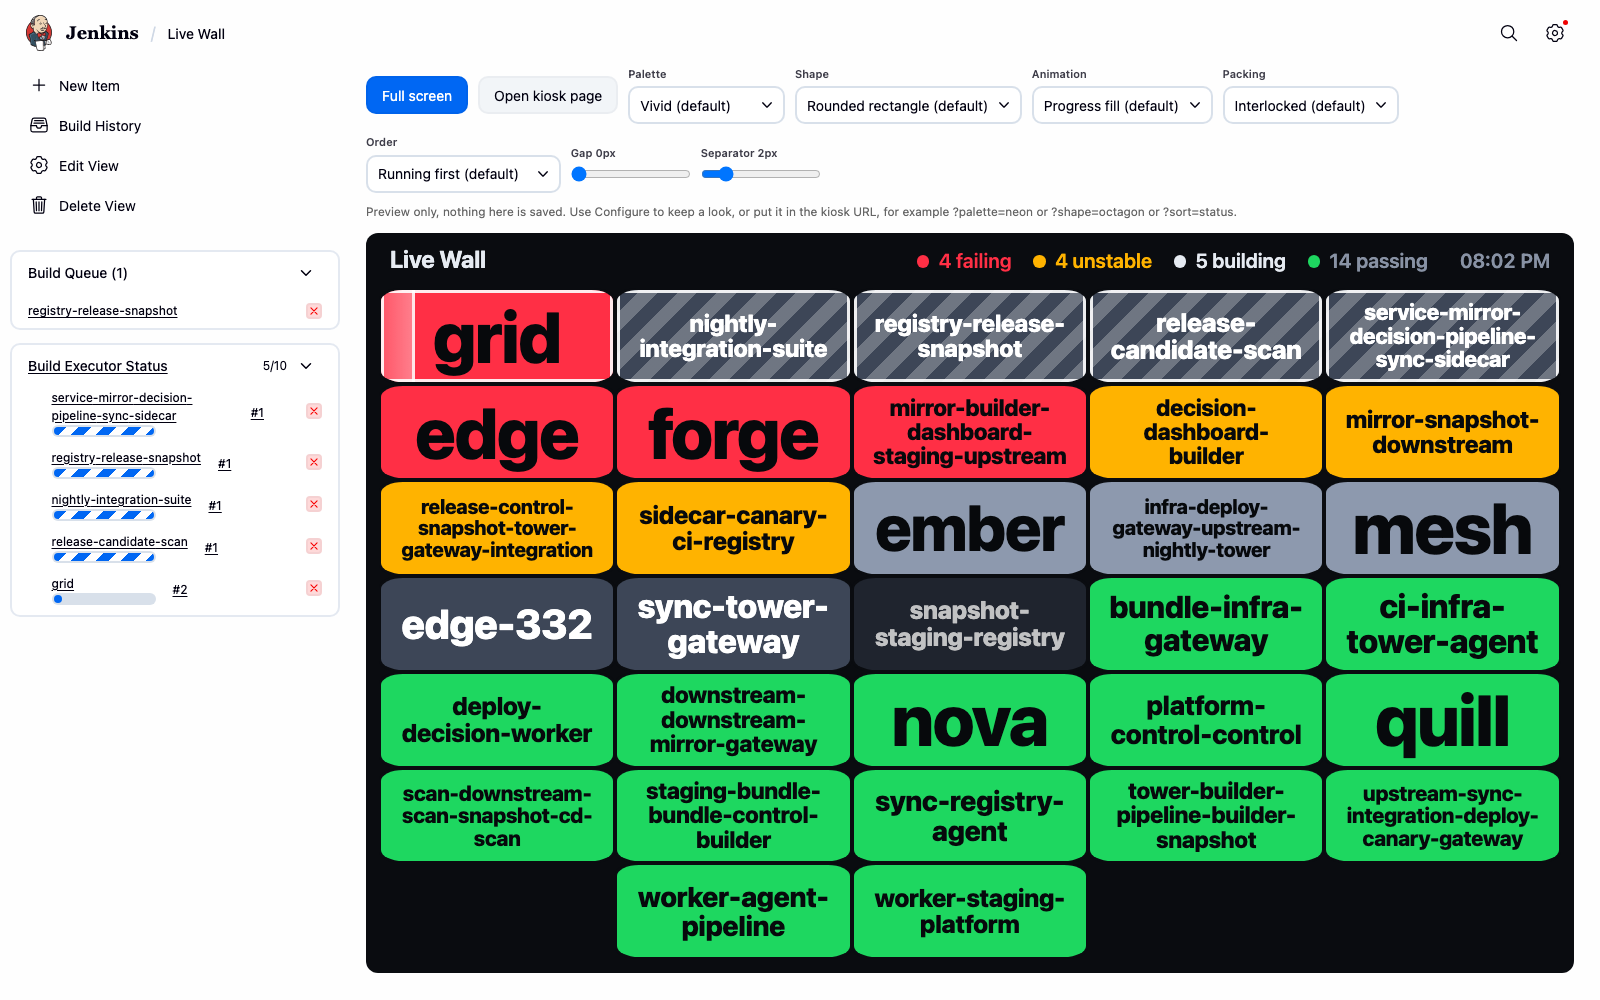
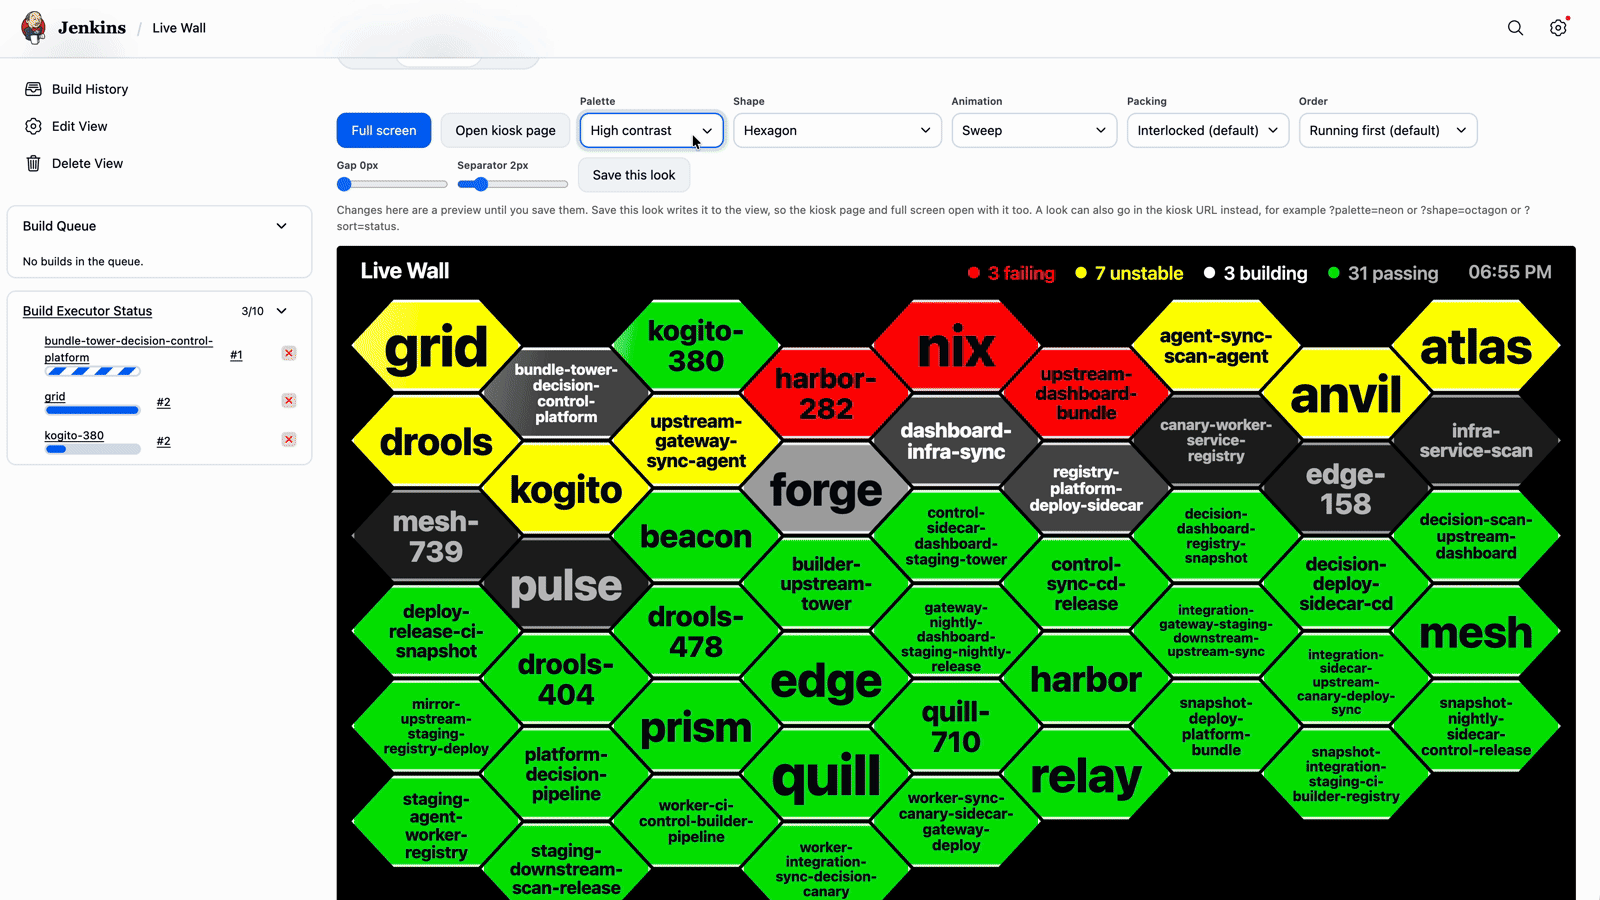
Add the demo video to the README, and refresh the view page screenshot (#13)
The recording is hosted by GitHub rather than committed: the original was
115MB of 3680x2392 at 120fps, and even compressed to 2.4MB a video in-tree
would sit in the clone forever, including in the jenkinsci fork once
hosting completes.

A bare attachment URL on its own line is what GitHub turns into an inline
player. That only works on GitHub, so there is a plain text link under it
for everywhere else -- plugins.jenkins.io renders this README too, and it
will almost certainly not render the embed.

The view page screenshot predated the Save button, so the paragraph beside
it described controls the picture did not have. Replaced with a frame from
the same recording, which also shows the current hint text.

That paragraph also still claimed nothing in the preview bar is saved,
which stopped being true when the Save button landed.

diff --git a/README.md b/README.md
@@ -18,6 +18,16 @@ clock.](docs/images/wall-hexagon.png)
 *Hexagons interlocked into a honeycomb. Jobs building right now sort to the top left, and the
 striped fill means Jenkins has no duration estimate to draw a progress bar from yet.*
 
+## See it running
+
+Forty seconds against a real controller: palettes and shapes changing on a live wall of 42 jobs,
+saving the look, and the kiosk page a television would be pointed at.
+
+https://github.com/user-attachments/assets/2a78178a-342e-46e0-a370-7cf2a3b915e9
+
+*No player above? [Watch the demo](https://github.com/user-attachments/assets/2a78178a-342e-46e0-a370-7cf2a3b915e9)
+— the inline video only renders on GitHub.*
+
 ---
 
 ## Why
@@ -108,11 +118,15 @@ type on:
 ```
 
 The view page also has a preview bar: drop-downs for palette, shape, animation, packing and order,
-and sliders for the gap and the separator, all applied to your real jobs as you change them. Nothing
-there is saved — it is for finding a look before committing it under **Configure**.
+and sliders for the gap and the separator, all applied to your real jobs as you change them. Moving
+one changes the wall in front of you and nothing else, so you can try a palette on the real thing
+without committing to it — and **Save this look** then keeps what you arrived at, so the kiosk page
+and full screen open with it too.
 
-![The Live Wall view inside Jenkins, with a row of preview controls above the wall: palette, shape,
-animation, packing, order, and sliders for gap and separator.](docs/images/view-page.png)
+![The Live Wall view inside Jenkins. Above the wall, a row of controls: Full screen, Open kiosk
+page, drop-downs for palette, shape, animation, packing and order, sliders for gap and separator,
+and a Save this look button. Below them, a honeycomb of hexagonal tiles in the high-contrast
+palette.](docs/images/view-page.png)
 
 Every setting is documented in **[docs/configuration.md](docs/configuration.md)**.
 
